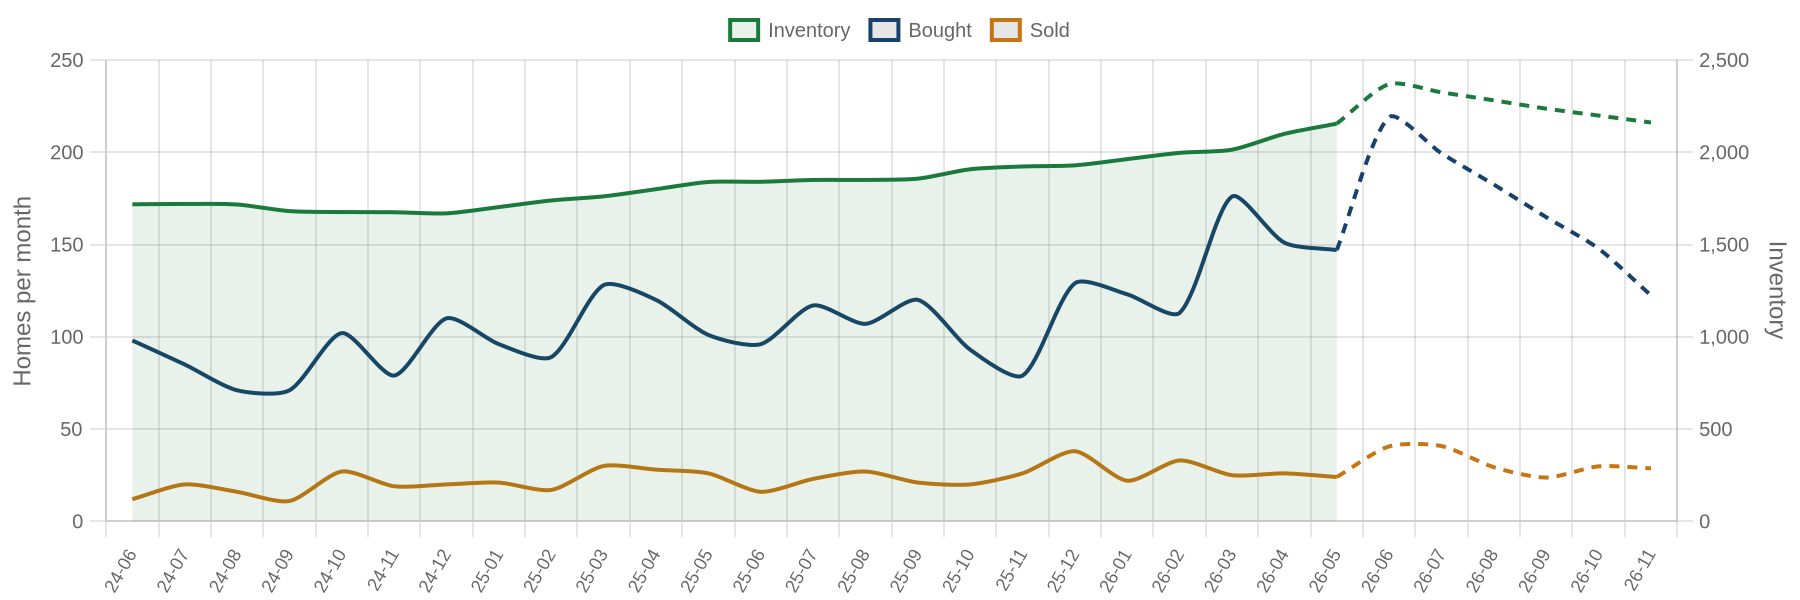
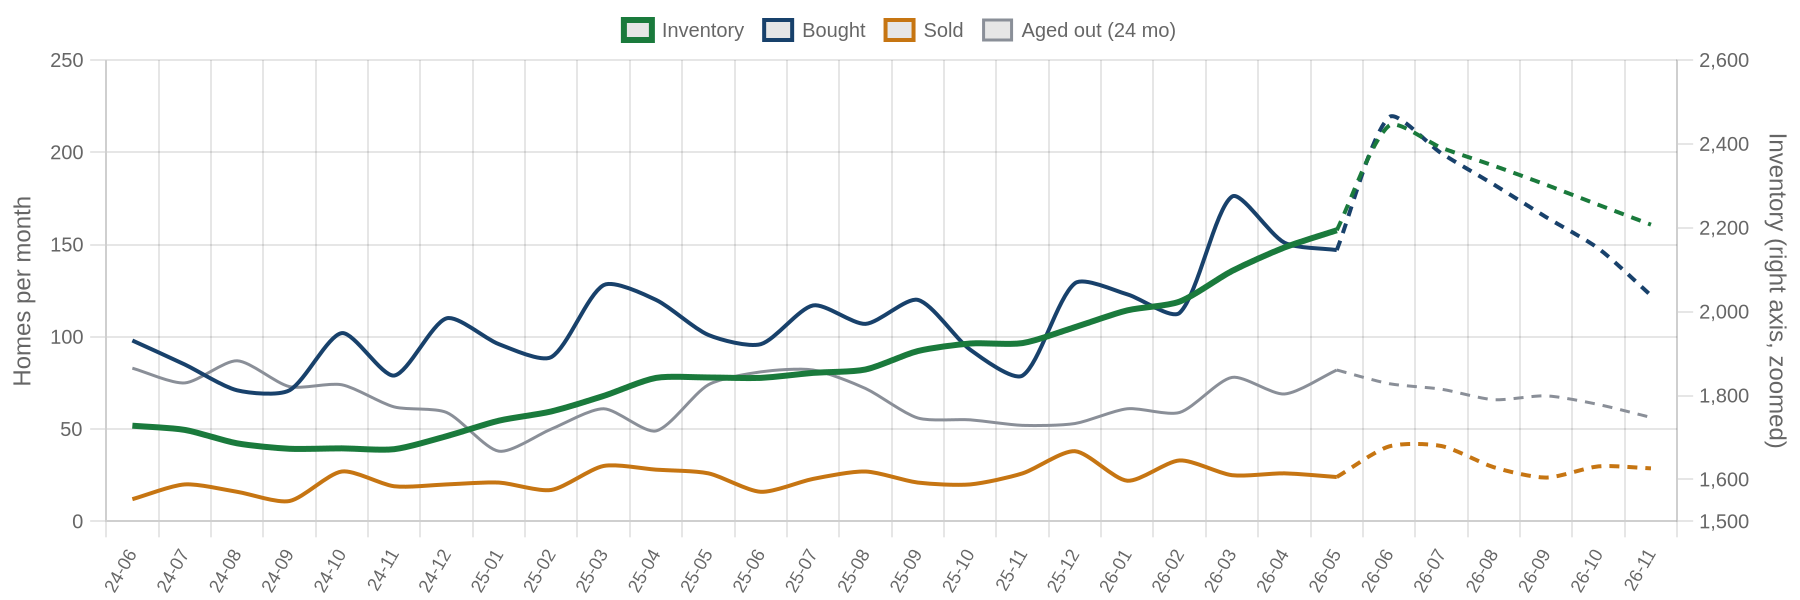
Flip pipeline: show the aged-out flow, measure inventory at month end, zoom the stock axis

diff --git a/cleveland/202608/index.html b/cleveland/202608/index.html
@@ -232,16 +232,7 @@
       </div>
     </div>
     <div class="deal-card">
-      <img src="../img/sv_2026-05..2026-06_3_543d8408.jpg" alt="Street view of 6402 RIDGE RD">
-      <div class="body">
-        <div class="price">$1.7M · Purchase</div>
-        <div class="addr">6402 RIDGE RD, Cleveland 44129</div>
-        <div class="meta">Apartment 5+ · 5,712 sqft · 4 parcels · Jun 11</div>
-        <div class="svdate">Street View Jun 2026 — same month as the purchase</div>
-      </div>
-    </div>
-    <div class="deal-card">
-      <img src="../img/sv_2026-05..2026-06_4_1c6a7c44.jpg" alt="Street view of 1904 WYNWOOD DR">
+      <img src="../img/sv_2026-05..2026-06_3_1c6a7c44.jpg" alt="Street view of 1904 WYNWOOD DR">
       <div class="body">
         <div class="price">$1.7M · Purchase</div>
         <div class="addr">1904 WYNWOOD DR, Rocky River 44116</div>
@@ -250,12 +241,21 @@
       </div>
     </div>
     <div class="deal-card">
-      <img src="../img/sv_2026-05..2026-06_5_29369639.jpg" alt="Street view of 60 S LANE DR">
+      <img src="../img/sv_2026-05..2026-06_4_29369639.jpg" alt="Street view of 60 S LANE DR">
       <div class="body">
         <div class="price">$1.7M · Purchase</div>
         <div class="addr">60 S LANE DR, Chagrin Falls 44022</div>
         <div class="meta">Single family · 8,305 sqft · Jun 17</div>
         <div class="svdate">Street View Aug 2022 — before the purchase</div>
+      </div>
+    </div>
+    <div class="deal-card">
+      <img src="../img/sv_2026-05..2026-06_5_543d8408.jpg" alt="Street view of 6402 RIDGE RD">
+      <div class="body">
+        <div class="price">$1.7M · Purchase</div>
+        <div class="addr">6402 RIDGE RD, Cleveland 44129</div>
+        <div class="meta">Apartment 5+ · 5,712 sqft · 4 parcels · Jun 11</div>
+        <div class="svdate">Street View Jun 2026 — same month as the purchase</div>
       </div>
     </div>
     <div class="deal-card">
@@ -277,7 +277,7 @@
       <tr><td>Jun 17</td><td>Flip</td><td class="num">$1.2M</td><td>26117 N Woodland Rd, Beachwood 44122</td><td>Single family</td></tr>
       <tr><td>Jun 18</td><td>Flip</td><td class="num">$505,000</td><td>2560 Snowberry Ln, Cleveland 44124</td><td>Single family</td></tr>
       <tr><td>May 12</td><td>Private loan</td><td class="num">$100,000</td><td>9902 Stoughton Ave, Cleveland 44104</td><td>2–4 unit</td></tr>
-      <tr><td>May 19</td><td>Private loan</td><td class="num">$93,000</td><td>2014 W 81st St, Cleveland 44102</td><td>2–4 unit</td></tr>
+      <tr><td>May 8</td><td>Private loan</td><td class="num">$93,000</td><td>3233 E 132nd St, Cleveland 44120</td><td>2–4 unit</td></tr>
     </tbody>
   </table>
 <h3 class="subsection-title">Largest flip margin deals of the period, at street level</h3>
@@ -369,12 +369,12 @@
 
   <h2 class="section-title" id="flip-pipeline">Flip Pipeline — Buying, Selling and Inventory</h2>
   <!-- AGENT:flipflow:start -->
-<p class="section-sub">Homes bought by known flippers and flips sold, per month, alongside the stock of houses sitting in flipper hands. A house enters inventory when a flipper buys it and leaves when the resale records — or when it passes 24 months unsold, at which point it stops being a flip in progress. That release is why inventory can fall in a month when buying outruns selling.</p>
-<div class="map-panel"><img src="../img/flipflow_2026-05..2026-06.png" alt="Flip purchases, flip sales and inventory by month with projection"><div class="caption">Solid = recorded. Dashed = projected. Shaded line = homes in flipper hands at month end (right axis).</div></div>
+<p class="section-sub">Homes bought by known flippers and flips sold, per month, alongside the stock of houses sitting in flipper hands. A house enters inventory when a flipper buys it and leaves when the resale records — or when it passes 24 months unsold, at which point it stops being a flip in progress. That third flow is the big one — it runs larger than the gap between buying and selling — so inventory routinely falls in months when flippers buy more than they sell.</p>
+<div class="map-panel"><img src="../img/flipflow_2026-05..2026-06.png" alt="Flip purchases, flip sales and inventory by month with projection"><div class="caption">Solid = recorded, dashed = projected. Three flows move the stock: bought in, sold out, and aged out — purchases that pass 24 months unsold and stop counting as flips in progress. The heavy green line is inventory, read against the RIGHT axis, which is zoomed to its own range so month-to-month movement is visible — the stock runs about thirty times the size of the monthly flows, so on a shared scale it would look frozen.</div></div>
 <table class="data tight">
-    <thead><tr><th>Flip pipeline</th><th class="num">Bought / mo</th><th class="num">Sold / mo</th><th class="num">Inventory</th></tr></thead><tbody>
-      <tr><td>Latest recorded month (2026-05)</td><td class="num">312</td><td class="num">161</td><td class="num">5,214</td></tr>
-      <tr><td>Projected (2026-11)</td><td class="num">223</td><td class="num">161</td><td class="num">4,942</td></tr>
+    <thead><tr><th>Flip pipeline</th><th class="num">Bought / mo</th><th class="num">Sold / mo</th><th class="num">Aged out / mo</th><th class="num">Inventory</th></tr></thead><tbody>
+      <tr><td>Latest recorded month (2026-05)</td><td class="num">312</td><td class="num">161</td><td class="num">207</td><td class="num">5,169</td></tr>
+      <tr><td>Projected (2026-11)</td><td class="num">223</td><td class="num">161</td><td class="num">157</td><td class="num">4,835</td></tr>
     </tbody></table>
   <div class="pulse-caveat">Method: a straight-line trend through the last 24 months, adjusted for the month of the year. Tested by hiding the most recent six months and predicting them, it missed purchases by 9%, sales by 29% and inventory by 4% on average — treat it as direction, not a number to underwrite against. The newest month or two of deeds are still arriving, so the series stops before them.</div>
       <!-- AGENT:flipflow:end -->

diff --git a/cleveland/index.html b/cleveland/index.html
@@ -232,16 +232,7 @@
       </div>
     </div>
     <div class="deal-card">
-      <img src="img/sv_2026-05..2026-06_3_543d8408.jpg" alt="Street view of 6402 RIDGE RD">
-      <div class="body">
-        <div class="price">$1.7M · Purchase</div>
-        <div class="addr">6402 RIDGE RD, Cleveland 44129</div>
-        <div class="meta">Apartment 5+ · 5,712 sqft · 4 parcels · Jun 11</div>
-        <div class="svdate">Street View Jun 2026 — same month as the purchase</div>
-      </div>
-    </div>
-    <div class="deal-card">
-      <img src="img/sv_2026-05..2026-06_4_1c6a7c44.jpg" alt="Street view of 1904 WYNWOOD DR">
+      <img src="img/sv_2026-05..2026-06_3_1c6a7c44.jpg" alt="Street view of 1904 WYNWOOD DR">
       <div class="body">
         <div class="price">$1.7M · Purchase</div>
         <div class="addr">1904 WYNWOOD DR, Rocky River 44116</div>
@@ -250,12 +241,21 @@
       </div>
     </div>
     <div class="deal-card">
-      <img src="img/sv_2026-05..2026-06_5_29369639.jpg" alt="Street view of 60 S LANE DR">
+      <img src="img/sv_2026-05..2026-06_4_29369639.jpg" alt="Street view of 60 S LANE DR">
       <div class="body">
         <div class="price">$1.7M · Purchase</div>
         <div class="addr">60 S LANE DR, Chagrin Falls 44022</div>
         <div class="meta">Single family · 8,305 sqft · Jun 17</div>
         <div class="svdate">Street View Aug 2022 — before the purchase</div>
+      </div>
+    </div>
+    <div class="deal-card">
+      <img src="img/sv_2026-05..2026-06_5_543d8408.jpg" alt="Street view of 6402 RIDGE RD">
+      <div class="body">
+        <div class="price">$1.7M · Purchase</div>
+        <div class="addr">6402 RIDGE RD, Cleveland 44129</div>
+        <div class="meta">Apartment 5+ · 5,712 sqft · 4 parcels · Jun 11</div>
+        <div class="svdate">Street View Jun 2026 — same month as the purchase</div>
       </div>
     </div>
     <div class="deal-card">
@@ -277,7 +277,7 @@
       <tr><td>Jun 17</td><td>Flip</td><td class="num">$1.2M</td><td>26117 N Woodland Rd, Beachwood 44122</td><td>Single family</td></tr>
       <tr><td>Jun 18</td><td>Flip</td><td class="num">$505,000</td><td>2560 Snowberry Ln, Cleveland 44124</td><td>Single family</td></tr>
       <tr><td>May 12</td><td>Private loan</td><td class="num">$100,000</td><td>9902 Stoughton Ave, Cleveland 44104</td><td>2–4 unit</td></tr>
-      <tr><td>May 19</td><td>Private loan</td><td class="num">$93,000</td><td>2014 W 81st St, Cleveland 44102</td><td>2–4 unit</td></tr>
+      <tr><td>May 8</td><td>Private loan</td><td class="num">$93,000</td><td>3233 E 132nd St, Cleveland 44120</td><td>2–4 unit</td></tr>
     </tbody>
   </table>
 <h3 class="subsection-title">Largest flip margin deals of the period, at street level</h3>
@@ -369,12 +369,12 @@
 
   <h2 class="section-title" id="flip-pipeline">Flip Pipeline — Buying, Selling and Inventory</h2>
   <!-- AGENT:flipflow:start -->
-<p class="section-sub">Homes bought by known flippers and flips sold, per month, alongside the stock of houses sitting in flipper hands. A house enters inventory when a flipper buys it and leaves when the resale records — or when it passes 24 months unsold, at which point it stops being a flip in progress. That release is why inventory can fall in a month when buying outruns selling.</p>
-<div class="map-panel"><img src="img/flipflow_2026-05..2026-06.png" alt="Flip purchases, flip sales and inventory by month with projection"><div class="caption">Solid = recorded. Dashed = projected. Shaded line = homes in flipper hands at month end (right axis).</div></div>
+<p class="section-sub">Homes bought by known flippers and flips sold, per month, alongside the stock of houses sitting in flipper hands. A house enters inventory when a flipper buys it and leaves when the resale records — or when it passes 24 months unsold, at which point it stops being a flip in progress. That third flow is the big one — it runs larger than the gap between buying and selling — so inventory routinely falls in months when flippers buy more than they sell.</p>
+<div class="map-panel"><img src="img/flipflow_2026-05..2026-06.png" alt="Flip purchases, flip sales and inventory by month with projection"><div class="caption">Solid = recorded, dashed = projected. Three flows move the stock: bought in, sold out, and aged out — purchases that pass 24 months unsold and stop counting as flips in progress. The heavy green line is inventory, read against the RIGHT axis, which is zoomed to its own range so month-to-month movement is visible — the stock runs about thirty times the size of the monthly flows, so on a shared scale it would look frozen.</div></div>
 <table class="data tight">
-    <thead><tr><th>Flip pipeline</th><th class="num">Bought / mo</th><th class="num">Sold / mo</th><th class="num">Inventory</th></tr></thead><tbody>
-      <tr><td>Latest recorded month (2026-05)</td><td class="num">312</td><td class="num">161</td><td class="num">5,214</td></tr>
-      <tr><td>Projected (2026-11)</td><td class="num">223</td><td class="num">161</td><td class="num">4,942</td></tr>
+    <thead><tr><th>Flip pipeline</th><th class="num">Bought / mo</th><th class="num">Sold / mo</th><th class="num">Aged out / mo</th><th class="num">Inventory</th></tr></thead><tbody>
+      <tr><td>Latest recorded month (2026-05)</td><td class="num">312</td><td class="num">161</td><td class="num">207</td><td class="num">5,169</td></tr>
+      <tr><td>Projected (2026-11)</td><td class="num">223</td><td class="num">161</td><td class="num">157</td><td class="num">4,835</td></tr>
     </tbody></table>
   <div class="pulse-caveat">Method: a straight-line trend through the last 24 months, adjusted for the month of the year. Tested by hiding the most recent six months and predicting them, it missed purchases by 9%, sales by 29% and inventory by 4% on average — treat it as direction, not a number to underwrite against. The newest month or two of deeds are still arriving, so the series stops before them.</div>
       <!-- AGENT:flipflow:end -->

diff --git a/austin/202608/index.html b/austin/202608/index.html
@@ -342,12 +342,12 @@
 
   <h2 class="section-title" id="flip-pipeline">Flip Pipeline — Buying, Selling and Inventory</h2>
   <!-- AGENT:flipflow:start -->
-<p class="section-sub">Homes bought by known flippers and flips sold, per month, alongside the stock of houses sitting in flipper hands. A house enters inventory when a flipper buys it and leaves when the resale records — or when it passes 24 months unsold, at which point it stops being a flip in progress. That release is why inventory can fall in a month when buying outruns selling.</p>
-<div class="map-panel"><img src="../img/flipflow_2026-05..2026-06.png" alt="Flip purchases, flip sales and inventory by month with projection"><div class="caption">Solid = recorded. Dashed = projected. Shaded line = homes in flipper hands at month end (right axis).</div></div>
+<p class="section-sub">Homes bought by known flippers and flips sold, per month, alongside the stock of houses sitting in flipper hands. A house enters inventory when a flipper buys it and leaves when the resale records — or when it passes 24 months unsold, at which point it stops being a flip in progress. That third flow is the big one — it runs larger than the gap between buying and selling — so inventory routinely falls in months when flippers buy more than they sell.</p>
+<div class="map-panel"><img src="../img/flipflow_2026-05..2026-06.png" alt="Flip purchases, flip sales and inventory by month with projection"><div class="caption">Solid = recorded, dashed = projected. Three flows move the stock: bought in, sold out, and aged out — purchases that pass 24 months unsold and stop counting as flips in progress. The heavy green line is inventory, read against the RIGHT axis, which is zoomed to its own range so month-to-month movement is visible — the stock runs about thirty times the size of the monthly flows, so on a shared scale it would look frozen.</div></div>
 <table class="data tight">
-    <thead><tr><th>Flip pipeline</th><th class="num">Bought / mo</th><th class="num">Sold / mo</th><th class="num">Inventory</th></tr></thead><tbody>
-      <tr><td>Latest recorded month (2026-05)</td><td class="num">147</td><td class="num">24</td><td class="num">2,155</td></tr>
-      <tr><td>Projected (2026-11)</td><td class="num">122</td><td class="num">29</td><td class="num">2,161</td></tr>
+    <thead><tr><th>Flip pipeline</th><th class="num">Bought / mo</th><th class="num">Sold / mo</th><th class="num">Aged out / mo</th><th class="num">Inventory</th></tr></thead><tbody>
+      <tr><td>Latest recorded month (2026-05)</td><td class="num">147</td><td class="num">24</td><td class="num">82</td><td class="num">2,194</td></tr>
+      <tr><td>Projected (2026-11)</td><td class="num">122</td><td class="num">29</td><td class="num">56</td><td class="num">2,207</td></tr>
     </tbody></table>
   <div class="pulse-caveat">Method: a straight-line trend through the last 24 months, adjusted for the month of the year. Tested by hiding the most recent six months and predicting them, it missed purchases by 21%, sales by 25% and inventory by 11% on average — treat it as direction, not a number to underwrite against. The newest month or two of deeds are still arriving, so the series stops before them.</div>
       <!-- AGENT:flipflow:end -->

diff --git a/austin/index.html b/austin/index.html
@@ -342,12 +342,12 @@
 
   <h2 class="section-title" id="flip-pipeline">Flip Pipeline — Buying, Selling and Inventory</h2>
   <!-- AGENT:flipflow:start -->
-<p class="section-sub">Homes bought by known flippers and flips sold, per month, alongside the stock of houses sitting in flipper hands. A house enters inventory when a flipper buys it and leaves when the resale records — or when it passes 24 months unsold, at which point it stops being a flip in progress. That release is why inventory can fall in a month when buying outruns selling.</p>
-<div class="map-panel"><img src="img/flipflow_2026-05..2026-06.png" alt="Flip purchases, flip sales and inventory by month with projection"><div class="caption">Solid = recorded. Dashed = projected. Shaded line = homes in flipper hands at month end (right axis).</div></div>
+<p class="section-sub">Homes bought by known flippers and flips sold, per month, alongside the stock of houses sitting in flipper hands. A house enters inventory when a flipper buys it and leaves when the resale records — or when it passes 24 months unsold, at which point it stops being a flip in progress. That third flow is the big one — it runs larger than the gap between buying and selling — so inventory routinely falls in months when flippers buy more than they sell.</p>
+<div class="map-panel"><img src="img/flipflow_2026-05..2026-06.png" alt="Flip purchases, flip sales and inventory by month with projection"><div class="caption">Solid = recorded, dashed = projected. Three flows move the stock: bought in, sold out, and aged out — purchases that pass 24 months unsold and stop counting as flips in progress. The heavy green line is inventory, read against the RIGHT axis, which is zoomed to its own range so month-to-month movement is visible — the stock runs about thirty times the size of the monthly flows, so on a shared scale it would look frozen.</div></div>
 <table class="data tight">
-    <thead><tr><th>Flip pipeline</th><th class="num">Bought / mo</th><th class="num">Sold / mo</th><th class="num">Inventory</th></tr></thead><tbody>
-      <tr><td>Latest recorded month (2026-05)</td><td class="num">147</td><td class="num">24</td><td class="num">2,155</td></tr>
-      <tr><td>Projected (2026-11)</td><td class="num">122</td><td class="num">29</td><td class="num">2,161</td></tr>
+    <thead><tr><th>Flip pipeline</th><th class="num">Bought / mo</th><th class="num">Sold / mo</th><th class="num">Aged out / mo</th><th class="num">Inventory</th></tr></thead><tbody>
+      <tr><td>Latest recorded month (2026-05)</td><td class="num">147</td><td class="num">24</td><td class="num">82</td><td class="num">2,194</td></tr>
+      <tr><td>Projected (2026-11)</td><td class="num">122</td><td class="num">29</td><td class="num">56</td><td class="num">2,207</td></tr>
     </tbody></table>
   <div class="pulse-caveat">Method: a straight-line trend through the last 24 months, adjusted for the month of the year. Tested by hiding the most recent six months and predicting them, it missed purchases by 21%, sales by 25% and inventory by 11% on average — treat it as direction, not a number to underwrite against. The newest month or two of deeds are still arriving, so the series stops before them.</div>
       <!-- AGENT:flipflow:end -->
